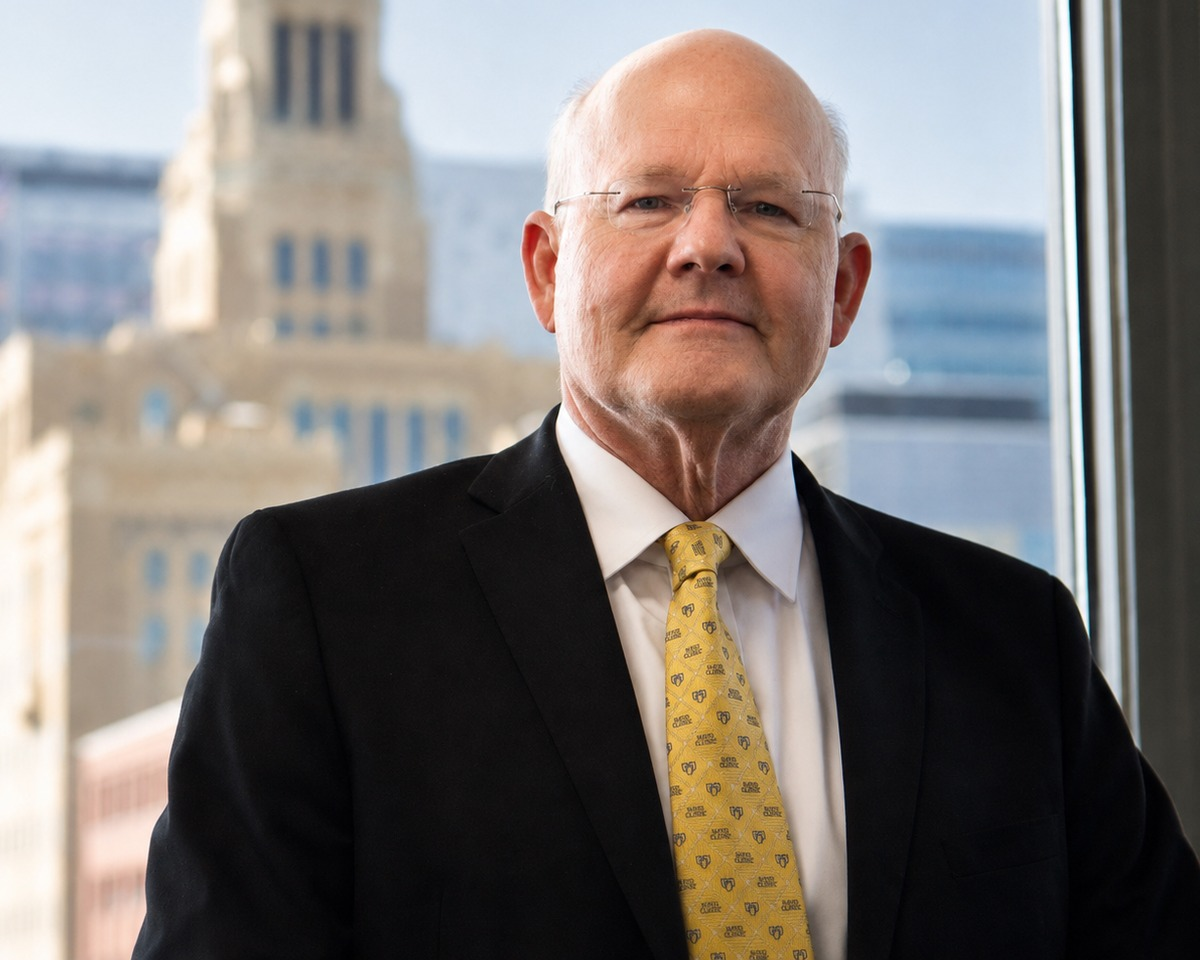
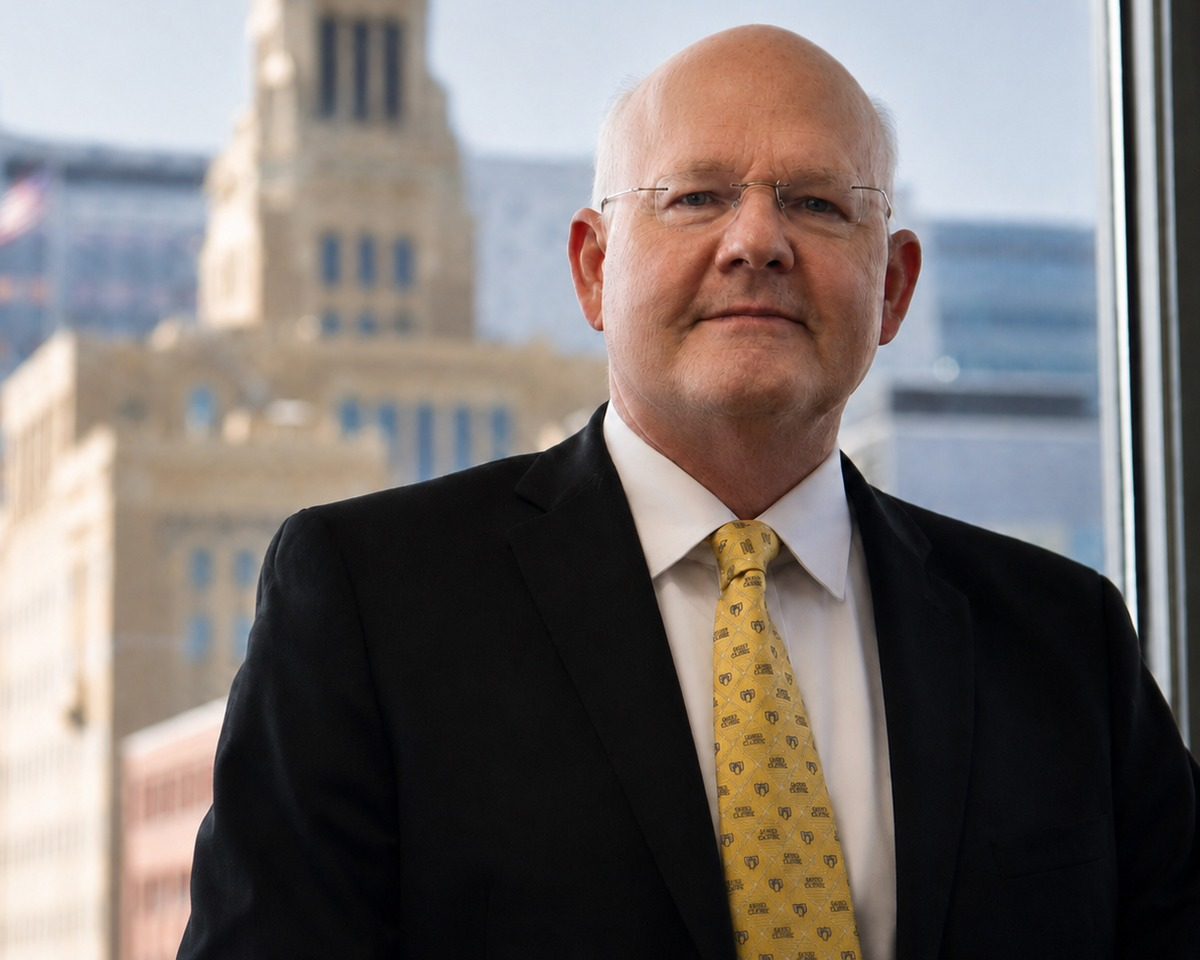
Fix the crash, the dead links and the keyboard traps a bug sweep turned up
A seven-lens sweep over the site, each finding then put to three skeptics told
to refute it. 31 raw findings, 18 refuted. What survived:

CRASH. On the carbon fiber tables page: pick a model that has Float, choose the
Float chip, switch to a model that has none, and `model.float.x` renders on an
undefined float and throws. RouteBoundary catches it and replaces the WHOLE
product page with the generic error screen, so the failure read as a broken page
rather than a broken control. The two adjacent expressions guard for exactly
this (`active === 'float' && model.float`); line 181 did not.

Fixed at the root and the symptom. The root is that <TableMotion> had no `key`,
so switching model re-rendered with the new model and the previous selection,
and the reconciling effect inside it runs after commit - one render too late.
`key={model.id}` remounts instead. The guard on line 181 matches its siblings.

The mirror case was quieter: chip Slide, switch to a model with no slide, and
`undefined / 2` put x1="NaN" into an SVG line - no error, no boundary, the
travel markers just stopped drawing. tools/check-table-motion.mjs drives both.

DEAD LINKS, all of them mine. Moving Education into the technology pages left
four "Read it" cards on /technology/neuromodulation, the media library's page
chip and sitemap.xml pointing at a route that no longer existed. My own link
check missed every one: it matched `to="/..."` but not the template-literal form
[…]

diff --git a/src/data/media.js b/src/data/media.js
@@ -50,21 +50,13 @@ import d1Hero from '../assets/d1/hero.webp';
 import d1Detail from '../assets/d1/detail.webp';
 import d1Head from '../assets/d1/head.webp';
 import mavenDevice from '../assets/maven/device.webp';
-import mavenDetail from '../assets/maven/detail.webp';
-import mavenField from '../assets/maven/fig-field.webp';
 import table from '../assets/or-tables/table.webp';
-import tableAlt from '../assets/or-tables/table-alt.webp';
-import tableSide from '../assets/or-tables/table-side.webp';
-import tableMotion from '../assets/or-tables/table-motion.webp';
 import swFusion from '../assets/software/fusion.webp';
 import swNbar from '../assets/software/nbar.webp';
 import swAcpc from '../assets/software/acpc.webp';
 import swDti1 from '../assets/software/dti1.webp';
 import swDti2 from '../assets/software/dti2.webp';
 import swTarget from '../assets/software/target.webp';
-import eduLocaliser from '../assets/education/02.3.a.webp';
-import eduSlice from '../assets/education/02.3.b.webp';
-import eduAtlas from '../assets/education/01.2.webp';
 import frameVideo from '../assets/education/02.1.web.mp4';
 import framePoster from '../assets/education/02.1.web.poster.webp';
 import orVideo from '../assets/media/or-footage.mp4';
@@ -79,7 +71,7 @@ const P = {
   maven: { to: '/products/maven-neuromodulation', label: 'MAVEN' },
   ai: { to: '/technology/navinetics-ai', label: 'NaviNetics AI' },
   neuro: { to: '/technology/neuromodulation', label: 'Neuromodulation' },
-  education: { to: '/resources/education', label: 'Education' },
+  education: { to: '/technology/education', label: 'Education' },
   founders: { to: '/company/our-founders', label: 'Our Founders' },
 };
 
@@ -162,7 +154,7 @@ export const images = [
     title: 'Skull Anchor Key on a head model',
     src: asset('/model-head-clean-750x998-1-451x600.png'), w: 451, h: 600,
     category: 'Devices', page: P.d1,
-    caption: 'The anchor key takes the place of a base ring, which is what keeps the face '
+    caption: 'The Skull Anchor Key fixes near the top of the skull, which is what keeps the face '
       + 'unobstructed.',
   },
   {
@@ -179,34 +171,10 @@ export const images = [
       + 'with stimulation, on one timebase.',
   },
   {
-    id: 'maven-panel',
-    title: 'MAVEN front panel',
-    src: mavenDetail, w: 1200, h: 800, category: 'Devices', page: P.maven,
-    caption: 'The channel inputs and controls, close up.',
-  },
-  {
     id: 'table-hero',
     title: 'Carbon fiber operating table',
     src: table, w: 1500, h: 571, category: 'Devices', page: P.tables,
     caption: 'A carbon-fiber tabletop for imaging-guided procedures.',
-  },
-  {
-    id: 'table-alt',
-    title: 'Operating table, three-quarter view',
-    src: tableAlt, w: 1500, h: 900, category: 'Devices', page: P.tables,
-    caption: 'The same table from the corner, showing the column and the base.',
-  },
-  {
-    id: 'table-side',
-    title: 'Operating table in side elevation',
-    src: tableSide, w: 1400, h: 672, category: 'Devices', page: P.tables,
-    caption: 'The top cantilevered clear of the column, so nothing but carbon sits over the base.',
-  },
-  {
-    id: 'table-motion',
-    title: 'Tilt positions, superimposed',
-    src: tableMotion, w: 1400, h: 856, category: 'Devices', page: P.tables,
-    caption: 'One table photographed in several tilt positions, one over another.',
   },
 
   /* ── Software ────────────────────────────────────────────────────────── */
@@ -250,74 +218,8 @@ export const images = [
     caption: 'A target set and the approach to it, in the workspace.',
   },
 
-  /* ── Science ─────────────────────────────────────────────────────────── */
-  {
-    id: 'fig-field',
-    title: 'The voltammetric field',
-    src: mavenField, w: 577, h: 513, category: 'Science', page: P.neuro,
-    caption: 'Current in color across potential and scan number, as the software draws it.',
-  },
-  {
-    id: 'edu-localiser',
-    title: 'The localizer and the slice it produces',
-    src: eduLocaliser, w: 1399, h: 1124, category: 'Science', page: P.education,
-    caption: 'Rods around the head, and the nine marks they leave in one axial image.',
-  },
-  {
-    id: 'edu-slice',
-    title: 'A slice, placed in the frame',
-    src: eduSlice, w: 1280, h: 1260, category: 'Science', page: P.education,
-    caption: 'How the spacing of three marks reports the height and the tilt of the plane they '
-      + 'came from.',
-  },
-  {
-    id: 'edu-atlas',
-    title: 'Atlas coordinates',
-    src: eduAtlas, w: 1400, h: 1128, category: 'Science', page: P.education,
-    caption: 'Where an indirect target sits relative to the commissures.',
-  },
-  {
-    id: 'wincs',
-    title: 'WINCS Harmoni',
-    src: asset('/WINC-Harmoni-Device.png'), w: 624, h: 485, category: 'Science', page: P.neuro,
-    caption: 'Wireless neurochemical and electrophysiological recording, from the published '
-      + 'research the instrument grew out of.',
-  },
-  {
-    id: 'wincs-preclinical',
-    title: 'WINCS in a preclinical model',
-    src: asset('/WINCS-Swine-Model-1024x668.png'), w: 1024, h: 668,
-    category: 'Science', page: P.neuro,
-    caption: 'Recording in swine.',
-  },
 
-  /* ── People ──────────────────────────────────────────────────────────── */
-  {
-    id: 'kendall-lee',
-    title: 'Kendall Lee',
-    src: asset('/kendall-lee-150-500x400-1.jpg'), w: 1200, h: 960,
-    category: 'People', page: P.founders,
-    caption: 'Co-founder. Neurosurgeon, Mayo Clinic.',
-  },
-  {
-    id: 'kevin-bennet',
-    title: 'Kevin Bennet',
-    src: asset('/kevin-bennet.jpg'), w: 1200, h: 960, category: 'People', page: P.founders,
-    caption: 'Co-founder. Division of Engineering, Mayo Clinic.',
-  },
-  {
-    id: 'stephan-goerss',
-    title: 'Stephan Goerss',
-    src: asset('/stephan-goerss-150.jpg'), w: 1200, h: 960, category: 'People', page: P.founders,
-    caption: 'Co-founder. Stereotactic instrument design.',
-  },
-  {
-    id: 'yoonbae-oh',
-    title: 'Yoonbae Oh',
-    src: asset('/yoonbae-oh.jpg'), w: 1200, h: 960, category: 'People', page: P.founders,
-    caption: 'Co-founder. Neurochemical sensing.',
-  },
 ];
 
 /** Filter chips, in the order the page shows them. */
-export const imageCategories = ['Devices', 'Software', 'Science', 'People'];
+export const imageCategories = ['Devices', 'Software'];

diff --git a/src/pages/Contact.jsx b/src/pages/Contact.jsx
@@ -58,7 +58,21 @@ export default function Contact() {
      right enquiry — "Request a quote" on the D1 page should not land a visitor
      on a generic form they have to re-classify themselves. */
   const [params] = useSearchParams();
-  const PRESET = { d1: REASONS[0], tables: REASONS[1], maven: REASONS[2], complaint: COMPLAINT };
+  /* Every ?reason= value used anywhere on the site must appear here. A key that
+     is missing does not fail loudly — it silently falls through to REASONS[0],
+     so the partners page's "Enquire about distribution" landed a distributor on
+     an NRSS enquiry form. Keys map to the REASONS list by name, not index, so
+     reordering that list cannot quietly re-point them. */
+  const PRESET = {
+    d1: 'NRSS inquiry',
+    nrss: 'NRSS inquiry',
+    tables: 'Surgical tables inquiry',
+    maven: 'Neuromodulation research',
+    distribution: 'Distribution and partnerships',
+    press: 'Press and media',
+    careers: 'Careers',
+    complaint: COMPLAINT,
+  };
   const [form, setForm] = useState({
     name: '', email: '', organization: '',
     reason: PRESET[params.get('reason')] ?? REASONS[0],
@@ -195,9 +209,15 @@ export default function Contact() {
                   <p className="font-semibold text-ok">Your email client is opening.</p>
                   <p className="mt-2 text-sm text-ink-2">
                     Everything you wrote is in the draft — press send there. If nothing
-                    opened, email{' '}
-                    <a href={`mailto:${INBOX}`} className="font-semibold text-action">{INBOX}</a>{' '}
-                    or copy your message from the form below.
+                    opened,{' '}
+                    {/* mailtoHref(), not a bare mailto: — the bare form opens an
+                        EMPTY draft, so the one visitor whose mail client failed
+                        to launch would lose everything they typed at exactly the
+                        moment they are trying to recover it. */}
+                    <a href={mailtoHref()} className="font-semibold text-action">try again</a>{' '}
+                    or write to{' '}
+                    <a href={`mailto:${INBOX}`} className="font-semibold text-action">{INBOX}</a>.
+                    Your message is still in the form — press Back to the form below to copy it.
                   </p>
                   <Button variant="secondary" className="mt-5" onClick={() => setStatus('idle')}>
                     Back to the form

diff --git a/src/pages/Media.jsx b/src/pages/Media.jsx
@@ -23,7 +23,7 @@ export default function Media() {
   usePageMeta({
     title: 'Media',
     description:
-      'Image and video library — NaviNetics devices, software, research and the people behind them.',
+      'Image and video library — the NaviNetics instruments and the planning software, photographed and rendered.',
   });
 
   const [category, setCategory] = useState('all');
@@ -46,7 +46,7 @@ export default function Media() {
       <Hero
         eyebrow="Resources — Media"
         title="The library."
-        lead="Devices, software, research and the people behind them. For press inquiries or
+        lead="The instruments and the software, photographed and rendered. For press enquiries or
           higher-resolution files, get in touch."
       />
 
@@ -152,10 +152,16 @@ export default function Media() {
 
       {/* ── all images ───────────────────────────────────────────────────── */}
       <Section wide>
+        {/* Was: "Every picture on the site. / Each one says where it is used,
+            so a picture is a way in rather than a dead end." The second sentence
+            explained our own design reasoning to the reader, which is a note for
+            a maintainer rather than page copy — the same fault as citing the
+            range sheet on the tables page. The links are visible; they do not
+            need announcing. */}
         <SectionHead
-          eyebrow="All images"
-          title="Every picture on the site."
-          lead="Each one says where it is used, so a picture is a way in rather than a dead end."
+          eyebrow="Images"
+          title="The instruments, and the software."
+          lead="Every picture links to the page it appears on."
         />
 
         <div className="mt-8 flex flex-wrap items-center gap-2">

diff --git a/src/pages/SurgicalTables.jsx b/src/pages/SurgicalTables.jsx
@@ -156,8 +156,8 @@ export default function SurgicalTables() {
             <h2 className="text-d2">Five tables, and what each one can do.</h2>
             <p className="max-w-prose text-sm leading-relaxed text-nn-200">
               Pick a model and the drawing performs the motions its specification gives it, through
-              the ranges it gives them. The buttons change with the table, because a one-motion
-              table has one thing to show.
+              the ranges it gives them. The buttons change with the table, because a two-motion
+              table has less to show than a four.
             </p>
           </div>
         </Reveal>
@@ -190,7 +190,13 @@ export default function SurgicalTables() {
             {/* The explorer keeps the page's light-on-dark register by sitting
                 on its own pale plate — a technical drawing is ink on paper. */}
             <div className="rounded-md bg-surface p-5 text-ink sm:p-7">
-              <TableMotion model={model} />
+              {/* `key` is the model id so a model change REMOUNTS this rather
+                  than re-rendering it with the previous model's selected motion.
+                  Without it, picking "Float" on a table that has float and then
+                  switching to one that does not rendered `model.float.x` on an
+                  undefined float and threw — the reconciling effect inside
+                  TableMotion runs after commit, which is one render too late. */}
+              <TableMotion key={model.id} model={model} />
             </div>
             <Specs model={model} />
           </div>

diff --git a/src/ui/PartnerGlobe.jsx b/src/ui/PartnerGlobe.jsx
@@ -182,6 +182,12 @@ export function PartnerGlobe({ territories, selected, onSelect }) {
           pin.style.top = `${p.y}px`;
           pin.style.opacity = front ? 1 : 0;
           pin.style.pointerEvents = front ? 'auto' : 'none';
+          /* visibility, not just pointer-events. pointer-events stops the MOUSE;
+             a <button> at opacity 0 is still in the tab order, so a keyboard
+             user tabbed into the pins on the far side of the globe and the
+             focus ring vanished with nothing to see. visibility:hidden removes
+             it from the tab order and the accessibility tree. */
+          pin.style.visibility = front ? 'visible' : 'hidden';
         }
         (sites.current.get(t.id) ?? []).forEach((el, i) => {
           if (!el) return;
@@ -192,6 +198,7 @@ export function PartnerGlobe({ territories, selected, onSelect }) {
           el.style.top = `${q.y}px`;
           el.style.opacity = vis ? 0.9 : 0;
           el.style.pointerEvents = vis ? 'auto' : 'none';
+          el.style.visibility = vis ? 'visible' : 'hidden';
         });
 
         /* The chip is pushed radially outward from the globe's center, then
@@ -217,6 +224,7 @@ export function PartnerGlobe({ territories, selected, onSelect }) {
           // a selection quiets the other chips rather than hiding them
           chip.style.opacity = front ? (sel && sel !== t.id ? 0.45 : 1) : 0;
           chip.style.pointerEvents = front ? 'auto' : 'none';
+          chip.style.visibility = front ? 'visible' : 'hidden';
         }
 
         if (front) {

diff --git a/src/components/AnimatedRoutes.jsx b/src/components/AnimatedRoutes.jsx
@@ -22,11 +22,18 @@ import { RouteBoundary, RouteFallback } from '../ui/RouteBoundary.jsx';
  * NaviNetics AI has a volume renderer and a noise table; its fallback is the
  * dark workstation ground, so the split cannot flash white over the hero.
  *
- * Education is no longer among them: it is not a route any more. Its five
+ * Education is a route again. Neuromodulation indexes its four topics rather
+ * than rendering them inline — four full lessons ran to ~9,000px on a page whose
+ * bands had already explained the same science — and an index needs somewhere to
+ * point. Declared before the dynamic /technology/:slug below, which would
+ * otherwise treat "education" as a technology slug and render the 404.
+ *
+ * The five
  * topics are rendered into the two technology pages that own them, so the
  * module now travels inside their chunks. See `teaches` in data/technology.js.
  */
 const NaviNeticsAI = lazy(() => import('../pages/NaviNeticsAI.jsx'));
+const Education = lazy(() => import('../pages/Education.jsx'));
 /* MAVEN carries the ring geometry and the voltammogram field, which no other
    route touches. Its fallback is the instrument bay, so the split cannot flash
    a pale panel over a dark hero. */
@@ -133,6 +140,14 @@ const routes = [
     element: (
       <Suspense fallback={<RouteFallback />}>
         <Neuromodulation />
+      </Suspense>
+    ),
+  },
+  {
+    path: '/technology/education',
+    element: (
+      <Suspense fallback={<RouteFallback />}>
+        <Education />
       </Suspense>
     ),
   },

diff --git a/src/pages/Neuromodulation.jsx b/src/pages/Neuromodulation.jsx
@@ -147,7 +147,7 @@ export default function Neuromodulation() {
       {/* THE METHOD, INDEXED — not inlined.
           ─────────────────────────────────────────────────────────────────
           This used to render all four education topics in full, on the
-          grounds that /resources/education sits three levels down the nav and
+          grounds that the education page sat three levels down the nav and
           the reader most likely to want the science was least likely to find
           it. The discovery problem was real; the fix was not. Four complete
           lessons ran to about 9,000px on a page whose four bands had already
@@ -170,7 +170,7 @@ export default function Neuromodulation() {
             .map((t) => (
               <Reveal key={t.id}>
                 <Link
-                  to={`/resources/education#${t.id}`}
+                  to={`/technology/education#${t.id}`}
                   className="group/t flex h-full flex-col gap-2 rounded-lg border border-hairline-soft
                     bg-surface p-6 transition-[transform,box-shadow,border-color] duration-[420ms]
                     ease-out hover:-translate-y-1 hover:border-hairline hover:shadow-e2"

diff --git a/src/data/d1.js b/src/data/d1.js
@@ -170,8 +170,12 @@ export const bands = [
       },
       {
         label: 'A manual microdrive.',
-        body: 'Advanced by hand, supplied with the frame alongside the DBS lead implantation and '
-          + 'accuracy verification accessories. It also accepts Alpha Omega drives.',
+        /* No longer says "supplied with the frame". data/products.js records it
+           as an open question that the microdrive and the X-ray reticles are not
+           in the nine-kit bill of materials, so the two files were asserting
+           different things about what is in the box. */
+        body: 'Advanced by hand, along the trajectory the arc has set. It also accepts Alpha '
+          + 'Omega drives.',
       },
     ],
     meta: [{ label: 'Drive', value: 'Mechanical' }, { label: 'Supplied', value: 'With the frame' }],

diff --git a/src/ui/TableMotion.jsx b/src/ui/TableMotion.jsx
@@ -178,7 +178,12 @@ export function TableMotion({ model, className }) {
         {(active === 'slide' || active === 'float') && (
           <g stroke="var(--action)" strokeWidth="2" opacity="0.6">
             {[-1, 1].map((s) => {
-              const span = active === 'slide' ? model.slide / 2 : model.float.x / 2;
+              /* Guarded like its siblings on lines 72-73. `active` can name a
+                 motion the current model does not have for exactly one render;
+                 unguarded this threw, and the mirror case emitted x1="NaN". */
+              const travel = active === 'slide' ? model.slide : model.float?.x;
+              if (!travel) return null;
+              const span = travel / 2;
               return (
                 <line
                   key={s}

diff --git a/src/pages/Founders.jsx b/src/pages/Founders.jsx
@@ -50,7 +50,7 @@ const founders = [
        correct as written. */
     role: 'Co-CEO & Co-Founder',
     image: asset('/kevin-bennet.jpg'),
-    focus: '69% 0%',
+    focus: '64% 0%',
     bio: [
       'Dr. Bennet has over 30 years of experience in technology development with organizations including Mayo Clinic, W.R. Grace & Co., Exxon International and Amoco Chemicals. He has been a consultant to the National Institutes of Health and served on NIH site visit teams.',
       'He holds patents concerning neurosurgery, diamond, semiconductor and optical technology and has founded several technology-based companies. He received a degree in Chemical Engineering from the Massachusetts Institute of Technology, an MBA from Harvard and his doctorate from Deakin University.',

diff --git a/src/pages/Partners.jsx b/src/pages/Partners.jsx
@@ -17,8 +17,11 @@ export default function Partners() {
   usePageMeta({
     title: 'Partners',
     description:
-      'The distribution partners and subsidiaries that bring NaviNetics systems to operating '
-      + 'rooms in the United States, South America, Greater China, Australia and South Korea.',
+      // Was "subsidiaries" and "Greater China" — both retired terms, still in
+      // the meta description where no on-page check was looking.
+      'The partners who bring NaviNetics systems to operating rooms in the United States, South '
+      + 'America, China, Taiwan, Singapore, Australia and South Korea, and the institutions we '
+      + 'publish with.',
   });
 
   const [selected, setSelected] = useState(null);

diff --git a/src/pages/WhoWeAre.jsx b/src/pages/WhoWeAre.jsx
@@ -28,7 +28,7 @@ const FOUNDERS = [
     image: asset('/kendall-lee-150-500x400-1.jpg'), focus: '56% 0%' },
   { name: 'Kevin E. Bennet', suffix: 'MBA, Ph.D.', role: 'Co-CEO & Co-Founder',
     line: 'Thirty years in technology development. Patents in neurosurgery, diamond, semiconductor and optical technology.',
-    image: asset('/kevin-bennet.jpg'), focus: '69% 0%' },
+    image: asset('/kevin-bennet.jpg'), focus: '64% 0%' },
   { name: 'Stephan J. Goerss', suffix: '', role: 'Co-Founder',
     line: 'Forty years designing neurosurgical devices and stereotactic instrumentation. 51 peer-reviewed papers.',
     image: asset('/stephan-goerss-150.jpg'), focus: '60% 0%' },
